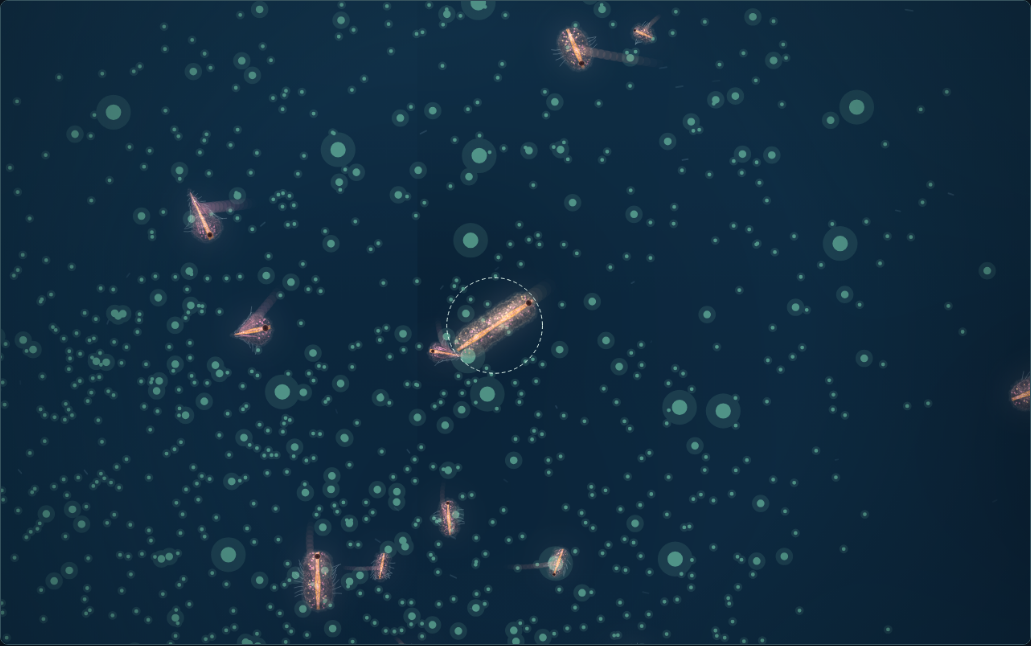
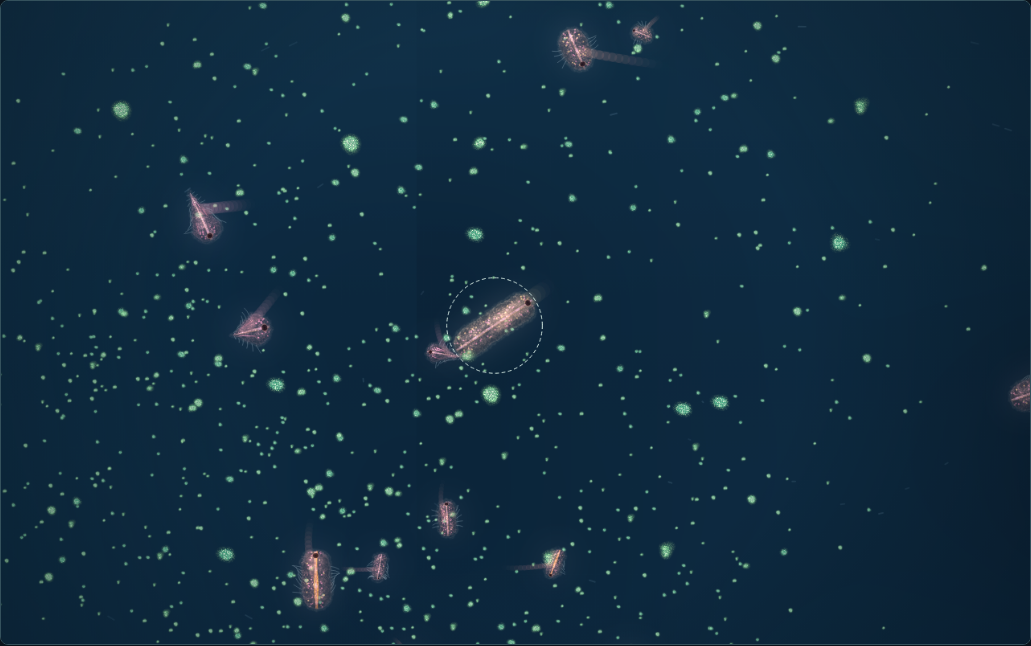
ALIFE 2.0 v2.0.3: food drawn as grainy clumps with smoothed display motion; gut shows real contents and peristalsis while digesting
Claude-Session: https://claude.ai/code/session_01ES2d8R5HP5q9J5W3wr1sHc

diff --git a/alife2-world.js b/alife2-world.js
@@ -6,9 +6,24 @@
   const zc = $('zoom'), zx = zc.getContext('2d'), zoomR = new A.render.Renderer(), thumbR = new A.render.Renderer(), bodyR = new A.render.Renderer();
   let gpuOn = new URLSearchParams(location.search).get('gfx') !== 'cpu';
   const q = new URLSearchParams(location.search), KEY = 'alife2_world_v1';
+  let grainSprites = null;
   let field = null, fimg = null, sand = null, motes = null, frameNo = 0; const trails = new WeakMap();
   let w, view, paused = false, sel = null, shown = null, follow = false, loaded = window.ALIFE2_LOAD || null, lastPanels = 0, lastSave = 0;
 
+  // a food grain: a few lobes of stippled matter with a soft ragged edge (drifting ones greenish, bottom ones ochre)
+  function clump(kind, seed) {
+    const n = 64, c = Object.assign(document.createElement('canvas'), { width: n, height: n }), g = c.getContext('2d'), img = g.createImageData(n, n), d = img.data;
+    let s = seed * 7919 + kind * 104729 + 13; const rnd = () => { s = (s * 1664525 + 1013904223) >>> 0; return s / 4294967296; };
+    const lobes = Array.from({ length: 3 + ((rnd() * 4) | 0) }, () => { const a = rnd() * 6.283, r = rnd() * 0.20; return [0.5 + Math.cos(a) * r, 0.5 + Math.sin(a) * r, 0.13 + rnd() * 0.11]; });
+    const tone = kind ? [[214, 190, 112], [150, 120, 70], [240, 225, 160]] : [[120, 205, 165], [70, 150, 150], [190, 245, 205]], hue = rnd();
+    for (let y = 0; y < n; y++) for (let x = 0; x < n; x++) {
+      let f = 0; for (const [cx, cy, r] of lobes) { const q = ((x / n - cx) ** 2 + (y / n - cy) ** 2) / (r * r); f += Math.exp(-q * 1.3); }
+      const st = rnd(), dens = Math.max(0, Math.min(1, (f - 0.38) * 1.6)), core = Math.max(0, Math.min(1, (f - 1.0) * 0.9)), j = (y * n + x) * 4;
+      const a = dens * (0.30 + 0.75 * st * st) + core * 0.25, t = st > 0.82 ? tone[2] : hue > 0.5 ? tone[0] : tone[1], m = 0.55 + 0.6 * core;
+      d[j] = Math.min(255, t[0] * m + tone[0][0] * core * 0.3); d[j + 1] = Math.min(255, t[1] * m + tone[0][1] * core * 0.3); d[j + 2] = Math.min(255, t[2] * m); d[j + 3] = Math.min(255, a * 235);
+    }
+    g.putImageData(img, 0, 0); return c;
+  }
   function start(world) {
     if (world) w = world;
     else {
@@ -110,13 +125,20 @@
       const x = X(m.x), y = Y(m.y); if (x < -20 || x > W + 20 || y < -20 || y > H + 20) continue;
       const l = Math.min(26, 2.2 * sc); ctx.strokeStyle = 'rgba(170,215,240,' + 0.22 * m.a + ')'; ctx.lineWidth = Math.max(0.8, 0.05 * sc); ctx.beginPath(); ctx.moveTo(x - vx * l, y - vy * l); ctx.lineTo(x + 0.01, y); ctx.stroke();
     }
-    // food grains: soft, and quieter than the living things
-    for (const pass of [0, 1]) {
-      ctx.fillStyle = pass ? 'rgba(214,196,120,.6)' : 'rgba(120,214,178,.55)'; ctx.beginPath();
-      for (const f of w.food) { if (!!f.fixed !== !!pass) continue; const x = X(f.x), y = Y(f.y); if (x < -4 || y < -4 || x > W + 4 || y > H + 4) continue; const r = f.size * 0.42 * sc; if (r < 0.9) ctx.rect(x - 0.6, y - 0.6, 1.2, 1.2); else { ctx.moveTo(x + r, y); ctx.arc(x, y, r, 0, 6.3); } }
-      ctx.fill();
-      if (sc > 9) { ctx.fillStyle = pass ? 'rgba(255,240,180,.10)' : 'rgba(170,255,220,.10)'; ctx.beginPath(); for (const f of w.food) { if (!!f.fixed !== !!pass) continue; const x = X(f.x), y = Y(f.y); if (x < -9 || y < -9 || x > W + 9 || y > H + 9) continue; const r = f.size * 0.95 * sc; ctx.moveTo(x + r, y); ctx.arc(x, y, r, 0, 6.3); } ctx.fill(); }
+    // food grains: clumps of the same grainy matter as the bodies, not discs.
+    // Their drawn position follows the true one with a short lag: in the model a grain is jostled every step,
+    // which at high speed reads as trembling; the simulation itself is not changed by this.
+    if (!grainSprites) grainSprites = [0, 1].map(kind => Array.from({ length: 8 }, (_, i) => clump(kind, i)));
+    const lag = paused ? 1 : Math.min(1, 0.10 + 0.04 * Number($('speed').value));
+    ctx.fillStyle = 'rgba(150,215,190,.5)'; const dots = [[], []];
+    for (const f of w.food) {
+      if (f._x == null) { f._x = f.x; f._y = f.y; f._v = (Math.random() * 8) | 0; }
+      let dx = f.x - f._x; dx -= Math.round(dx / w.W) * w.W; f._x += dx * lag; f._y += (f.y - f._y) * lag;
+      const x = X(f._x), y = Y(f._y); if (x < -30 || y < -30 || x > W + 30 || y > H + 30) continue;
+      const d = f.size * sc * 1.9;
+      if (d < 3.2) dots[f.fixed ? 1 : 0].push(x, y, Math.max(1, d * 0.5)); else ctx.drawImage(grainSprites[f.fixed ? 1 : 0][f._v], x - d / 2, y - d / 2, d, d);
     }
+    for (const k of [0, 1]) { ctx.fillStyle = k ? 'rgba(205,190,125,.55)' : 'rgba(140,210,185,.5)'; ctx.beginPath(); const q = dots[k]; for (let i = 0; i < q.length; i += 3) ctx.rect(q[i] - q[i + 2] / 2, q[i + 1] - q[i + 2] / 2, q[i + 2], q[i + 2]); ctx.fill(); }
     frameNo++;
     for (const o of w.bodies) {
       const b = o.b; let x0 = 1e9, y0 = 1e9, x1 = -1e9, y1 = -1e9;
@@ -136,7 +158,7 @@
         // each body gets its own small picture, drawn larger than shown when the body is small
         const size = Math.ceil(Math.max(px, py) + 18), ss = Math.max(1, Math.min(4, Math.floor(440 / size)));
         ctx.save(); ctx.translate(Math.round(mx - size / 2), Math.round(my - size / 2));
-        bodyR.draw(ctx, b.segs, { cx: mxw, cy: (y0 + y1) / 2, scale: sc, w: size, h: size }, { gpu: gpuOn, quality: gpuOn ? ss : Math.min(2, ss), hue: o.g.hue, glow: sc > 18, shadow: o.cy >= w.yBottom, time: b.t, drive: b.cmd.drive, bristles: sc > 20, internals: sc > 6, pads: o.cy >= w.yBottom });
+        bodyR.draw(ctx, b.segs, { cx: mxw, cy: (y0 + y1) / 2, scale: sc, w: size, h: size }, { gpu: gpuOn, quality: gpuOn ? ss : Math.min(2, ss), hue: o.g.hue, glow: sc > 18, shadow: o.cy >= w.yBottom, time: b.t, clock: w.t, gut: o.G / Math.max(1e-6, o.prof.gutCap), drive: b.cmd.drive, bristles: sc > 20, internals: sc > 6, pads: o.cy >= w.yBottom });
         ctx.restore();
       }
       if (o === sel) { ctx.strokeStyle = '#eafff4'; ctx.lineWidth = 1; ctx.setLineDash([4, 4]); ctx.beginPath(); ctx.arc(mx, my, Math.max(px, py) / 2 + 8, 0, 6.3); ctx.stroke(); ctx.setLineDash([]); }
@@ -157,7 +179,7 @@
     } else if (sel && !sel.dead) {
       const d = A.development.describe(sel.plan), sc = Math.min((zc.width - 30) / (d.length + 1), (zc.height - 30) / (d.width + 1), 120), cm = A.physics.com(sel.b);
       zx.fillStyle = '#07121d'; zx.fillRect(0, 0, zc.width, zc.height);
-      zoomR.draw(zx, sel.b.segs, { cx: cm[0], cy: cm[1], scale: sc, w: zc.width, h: zc.height }, { hue: sel.g.hue, glow: false, time: sel.b.t, drive: sel.b.cmd.drive });
+      zoomR.draw(zx, sel.b.segs, { cx: cm[0], cy: cm[1], scale: sc, w: zc.width, h: zc.height }, { hue: sel.g.hue, glow: false, time: sel.b.t, clock: w.t, gut: sel.G / Math.max(1e-6, sel.prof.gutCap), drive: sel.b.cmd.drive });
       const p = sel.prof, inc = sel.eaten + sel.absorbed;
       $('info').textContent = '#' + sel.id + ' / 由来 ' + sel.g.origin + ' / 系統 ' + sel.line + ' / 世代 ' + sel.gen + ' / 変異 ' + sel.g.mutations + ' 回\n齢 ' + sel.age.toFixed(0) + ' / ' + sel.life.toFixed(0) + ' 秒 / 成熟段階 ' + sel.stage.toFixed(2) + ' / 子 ' + sel.kids + ' / 出生時の大きさ ' + sel.g.birth.toFixed(2)
         + '\n体節 ' + sel.b.segs.length + '（成体 ' + sel.full.segs + '）/ 体積 ' + p.V.toFixed(2) + ' / 口 ' + p.mouths.length + ' / 部品 ' + sel.g.parts.length + ' 種・規則 ' + sel.g.links.length + ' 本'

diff --git a/alife2-gpu.js b/alife2-gpu.js
@@ -48,7 +48,7 @@ void main(){
 }`;
   const SHADE = `#version 300 es
 precision highp float;
-uniform sampler2D t0, t1, t2, t3; uniform vec3 uBody, uRim, uArm, uDeep; uniform float uOrgans, uQ;
+uniform sampler2D t0, t1, t2, t3; uniform vec3 uBody, uRim, uArm, uDeep; uniform float uOrgans, uQ, uGut, uTime;
 out vec4 o;
 float hash(vec2 p){ p = fract(p * vec2(123.34, 456.21)); p += dot(p, p + 45.32); return fract(p.x * p.y); }
 float noise(vec2 x){ vec2 i = floor(x), f = fract(x); f = f * f * (3. - 2. * f);
@@ -89,9 +89,10 @@ void main(){
     vec2 sc = cells(vec2(U, V) / max(2.6, R * 0.20) + 17.); float st = step(1. - clamp(P.y * 0.9, 0., 1.), sc.y) * (1. - smoothstep(0.26, 0.36, sc.x)) * (1. - smoothstep(0.62, 0.75, av));
     org = mix(org, vec3(1.0, 0.92, 0.62) * (1.2 - sc.x), st * 0.8); oa = max(oa, st * 0.7);
     // gut: a tube along the axis, pinched into chambers, with a wall and granular contents
-    float gw = clamp(Q.x, 0., 1.) * 0.46 * (0.80 + 0.22 * sin(w * 2.3) + 0.12 * (noise(vec2(U, V) * 0.15) - 0.5)), gz = (1. - smoothstep(gw * 0.55, gw * 1.05, av)) * step(0.03, Q.x);
+    float wave = sin(w * 2.3 - uTime * 4.0 * step(0.02, uGut)); // contents are squeezed along only while there is something to digest
+    float gw = clamp(Q.x, 0., 1.) * 0.46 * (0.50 + 0.42 * uGut) * (0.86 + (0.10 + 0.20 * uGut) * wave + 0.12 * (noise(vec2(U, V) * 0.15) - 0.5)), gz = (1. - smoothstep(gw * 0.55, gw * 1.05, av)) * step(0.03, Q.x);
     float wall = smoothstep(gw * 0.55, gw * 0.95, av), grn = cells(vec2(U, V) / max(1.6, R * 0.10) + 31.).x;
-    vec3 gcol = mix(vec3(1.0, 0.62, 0.22), vec3(0.93, 0.80, 0.34), wall) * (0.70 + 0.5 * noise(vec2(U, V) * 0.5)) * (0.75 + 0.45 * smoothstep(0.1, 0.5, grn));
+    vec3 gcol = mix(mix(vec3(0.62, 0.50, 0.40), vec3(1.0, 0.62, 0.22), smoothstep(0., 0.5, uGut)), vec3(0.93, 0.80, 0.34), wall) * (0.70 + 0.5 * noise(vec2(U, V) * 0.5)) * (0.75 + 0.45 * smoothstep(0.1, 0.5, grn));
     org = mix(org, gcol, gz); oa = max(oa, gz * 0.9);
     // nerve: a cord along the axis with a ganglion in every stretch of body, a brain where there is much
     float cord = 1. - smoothstep(0.035, 0.075, abs(v - 0.02)), gang = (1. - smoothstep(0.08, 0.16, length(vec2(fract(w * 0.9) - 0.5, v * 1.3))));
@@ -139,7 +140,7 @@ void main(){
         const prog = fs => { const p = gl.createProgram(); gl.attachShader(p, sh(gl.VERTEX_SHADER, VS)); gl.attachShader(p, sh(gl.FRAGMENT_SHADER, fs)); gl.bindAttribLocation(p, 0, 'p'); gl.linkProgram(p); if (!gl.getProgramParameter(p, gl.LINK_STATUS)) throw new Error(gl.getProgramInfoLog(p)); return p; };
         this.pField = prog(FIELD); this.pShade = prog(SHADE);
         const loc = (p, names) => Object.fromEntries(names.map(n => [n, gl.getUniformLocation(p, n)]));
-        this.uF = loc(this.pField, ['uSeg', 'uN', 'uRes']); this.uS = loc(this.pShade, ['t0', 't1', 't2', 't3', 'uBody', 'uRim', 'uArm', 'uDeep', 'uOrgans', 'uQ']);
+        this.uF = loc(this.pField, ['uSeg', 'uN', 'uRes']); this.uS = loc(this.pShade, ['t0', 't1', 't2', 't3', 'uBody', 'uRim', 'uArm', 'uDeep', 'uOrgans', 'uQ', 'uGut', 'uTime']);
         const vb = gl.createBuffer(); gl.bindBuffer(gl.ARRAY_BUFFER, vb); gl.bufferData(gl.ARRAY_BUFFER, new Float32Array([-1, -1, 3, -1, -1, 3]), gl.STATIC_DRAW);
         gl.enableVertexAttribArray(0); gl.vertexAttribPointer(0, 2, gl.FLOAT, false, 0, 0);
         this.seg = gl.createTexture(); this.data = new Float32Array(MAXS * ROWS * 4);
@@ -164,7 +165,7 @@ void main(){
     }
     // groups: arrays of pixel-space segments in draw order (from Renderer.layout).
     // Returns the canvas; the picture is in this.region = [sx, sy, w, h] of it.
-    render(groups, w, h, colors, organs, q) {
+    render(groups, w, h, colors, organs, q, gut, time) {
       const gl = this.gl, d = this.data; this.reserve(w, h); if (!this.ok) return null;
       let n = 0;
       for (const grp of groups) for (const p of grp) {
@@ -179,7 +180,7 @@ void main(){
       gl.drawArrays(gl.TRIANGLES, 0, 3);
       gl.bindFramebuffer(gl.FRAMEBUFFER, null); gl.useProgram(this.pShade);
       this.tex.forEach((t, i) => { gl.activeTexture(gl.TEXTURE0 + i); gl.bindTexture(gl.TEXTURE_2D, t); gl.uniform1i(this.uS['t' + i], i); });
-      gl.uniform3fv(this.uS.uBody, colors.body); gl.uniform3fv(this.uS.uRim, colors.rim); gl.uniform3fv(this.uS.uArm, colors.arm); gl.uniform3fv(this.uS.uDeep, colors.deep); gl.uniform1f(this.uS.uOrgans, organs ? 1 : 0); gl.uniform1f(this.uS.uQ, q || 1);
+      gl.uniform3fv(this.uS.uBody, colors.body); gl.uniform3fv(this.uS.uRim, colors.rim); gl.uniform3fv(this.uS.uArm, colors.arm); gl.uniform3fv(this.uS.uDeep, colors.deep); gl.uniform1f(this.uS.uOrgans, organs ? 1 : 0); gl.uniform1f(this.uS.uQ, q || 1); gl.uniform1f(this.uS.uGut, gut == null ? 0.6 : Math.max(0, Math.min(1, gut))); gl.uniform1f(this.uS.uTime, (time || 0) % 1000);
       gl.clearColor(0, 0, 0, 0); gl.clear(gl.COLOR_BUFFER_BIT); gl.drawArrays(gl.TRIANGLES, 0, 3);
       this.region = [0, this.h - h, w, h];
       return this.canvas;

diff --git a/alife2-sheet.html b/alife2-sheet.html
@@ -17,14 +17,14 @@ p{color:#a8bdc5}canvas{width:100%;height:auto;display:block;border:1px solid #34
 <p><a href="./alife2-lab.html">← 形態実験室 2.0</a>　すべて人工試験遺伝子。同じ発生・描画コードで、数値だけを変えた結果を並べる。自然進化の結果ではない。</p>
 <div id="rows"></div>
 </main>
-<script src="./alife2-version.js?v=2"></script>
-<script src="./alife2-genome.js?v=2"></script>
-<script src="./alife2-development.js?v=2"></script>
-<script src="./alife2-neural.js?v=2"></script>
-<script src="./alife2-physics.js?v=2"></script>
-<script src="./alife2-render.js?v=2"></script>
-<script src="./alife2-gpu.js?v=2"></script>
-<script src="./alife2-bodyplan.js?v=2"></script>
+<script src="./alife2-version.js?v=3"></script>
+<script src="./alife2-genome.js?v=3"></script>
+<script src="./alife2-development.js?v=3"></script>
+<script src="./alife2-neural.js?v=3"></script>
+<script src="./alife2-physics.js?v=3"></script>
+<script src="./alife2-render.js?v=3"></script>
+<script src="./alife2-gpu.js?v=3"></script>
+<script src="./alife2-bodyplan.js?v=3"></script>
 <script>
 (function () {
   const A = ALIFE2, S = id => A.bodyplan.SAMPLES.find(q => q.id === id).params, R = new A.render.Renderer();

diff --git a/alife2-render.js b/alife2-render.js
@@ -133,7 +133,7 @@
       const q = opt.quality || 1, organs = opt.internals !== false; let skin = null, src = null; this.used = 'cpu';
       if (opt.gpu !== false && A.gpu) {
         const g = this.gpuSkin = A.gpu.shared();
-        if (g.ok && segs.length <= A.gpu.MAXS) { skin = g.render(this.layout(segs, view, q), Math.max(8, Math.round(view.w * q)), Math.max(8, Math.round(view.h * q)), this.colors(opt.hue == null ? 170 : opt.hue), organs, q); if (skin) { this.used = 'gpu'; src = g.region; } }
+        if (g.ok && segs.length <= A.gpu.MAXS) { skin = g.render(this.layout(segs, view, q), Math.max(8, Math.round(view.w * q)), Math.max(8, Math.round(view.h * q)), this.colors(opt.hue == null ? 170 : opt.hue), organs, q, opt.gut, opt.clock == null ? opt.time : opt.clock); if (skin) { this.used = 'gpu'; src = g.region; } }
       }
       if (!skin) { const img = this.field(segs, view, opt); this.canvas.getContext('2d').putImageData(img, 0, 0); skin = this.canvas; src = [0, 0, this.w, this.h]; }
       const blit = (dx, dy) => ctx.drawImage(skin, src[0], src[1], src[2], src[3], dx, dy, view.w, view.h);

diff --git a/alife2.html b/alife2.html
@@ -52,15 +52,15 @@ button{cursor:pointer}.controls{display:flex;flex-wrap:wrap;gap:8px;align-items:
 </div>
 </div>
 </main>
-<script src="./alife2-version.js?v=2"></script>
-<script src="./alife2-genome.js?v=2"></script>
-<script src="./alife2-development.js?v=2"></script>
-<script src="./alife2-neural.js?v=2"></script>
-<script src="./alife2-physics.js?v=2"></script>
-<script src="./alife2-organs.js?v=2"></script>
-<script src="./alife2-engine.js?v=2"></script>
-<script src="./alife2-render.js?v=2"></script>
-<script src="./alife2-gpu.js?v=2"></script>
-<script src="./alife2-world.js?v=2"></script>
+<script src="./alife2-version.js?v=3"></script>
+<script src="./alife2-genome.js?v=3"></script>
+<script src="./alife2-development.js?v=3"></script>
+<script src="./alife2-neural.js?v=3"></script>
+<script src="./alife2-physics.js?v=3"></script>
+<script src="./alife2-organs.js?v=3"></script>
+<script src="./alife2-engine.js?v=3"></script>
+<script src="./alife2-render.js?v=3"></script>
+<script src="./alife2-gpu.js?v=3"></script>
+<script src="./alife2-world.js?v=3"></script>
 </body>
 </html>

diff --git a/alife2-lab.html b/alife2-lab.html
@@ -75,14 +75,14 @@ summary{cursor:pointer;font-weight:600}
 </div>
 </div>
 </main>
-<script src="./alife2-version.js?v=2"></script>
-<script src="./alife2-genome.js?v=2"></script>
-<script src="./alife2-development.js?v=2"></script>
-<script src="./alife2-neural.js?v=2"></script>
-<script src="./alife2-physics.js?v=2"></script>
-<script src="./alife2-render.js?v=2"></script>
-<script src="./alife2-gpu.js?v=2"></script>
-<script src="./alife2-bodyplan.js?v=2"></script>
-<script src="./alife2-lab.js?v=2"></script>
+<script src="./alife2-version.js?v=3"></script>
+<script src="./alife2-genome.js?v=3"></script>
+<script src="./alife2-development.js?v=3"></script>
+<script src="./alife2-neural.js?v=3"></script>
+<script src="./alife2-physics.js?v=3"></script>
+<script src="./alife2-render.js?v=3"></script>
+<script src="./alife2-gpu.js?v=3"></script>
+<script src="./alife2-bodyplan.js?v=3"></script>
+<script src="./alife2-lab.js?v=3"></script>
 </body>
 </html>

diff --git a/alife2-version.js b/alife2-version.js
@@ -1,7 +1,7 @@
 // ALIFE 2.0 build number. Written by tools/alife2-bump.js; do not edit by hand.
 (function (G) {
   const A = G.ALIFE2 = G.ALIFE2 || {};
-  A.version = { build: 2, label: 'v2.0.2', when: '2026-11-25 11:43 UTC', note: "輪郭線をやめ、粒状の物質として描く" };
+  A.version = { build: 3, label: 'v2.0.3', when: '2026-11-25 11:48 UTC', note: "餌を粒状の塊に、表示の震えを抑制、消化管の実際の中身と蠕動" };
   if (typeof document !== 'undefined') addEventListener('DOMContentLoaded', () => { for (const e of document.querySelectorAll('[data-alife2-version]')) e.textContent = A.version.label + '（' + A.version.when + (A.version.note ? '・' + A.version.note : '') + '）'; });
   if (typeof module !== 'undefined') module.exports = A;
 })(typeof globalThis !== 'undefined' ? globalThis : this);
